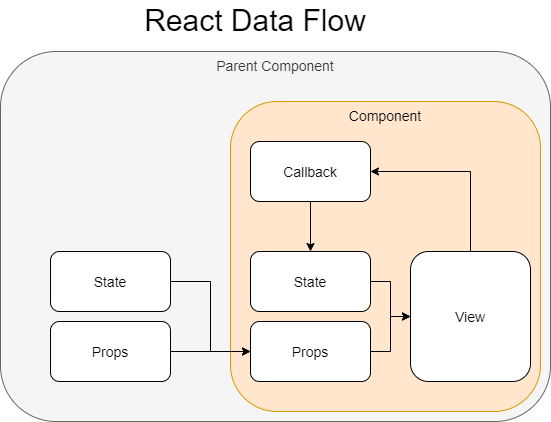
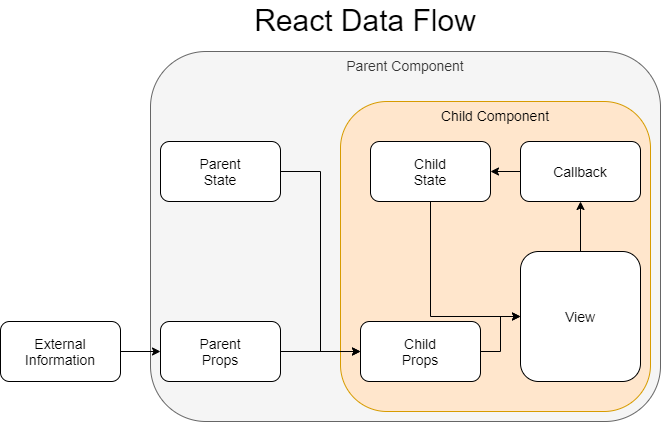
Diagram updates, alternatives and concepts

diff --git a/src/pages/index.js b/src/pages/index.js
@@ -1,7 +1,7 @@
 // import BackgroundInformation from './BackgroundInformation';
 import OtherConcepts from './OtherConcepts';
 import Alternatives from './Alternatives';
-import Resources from './Resources';
+// import Resources from './Resources';
 import GettingStartedSuggestions from './GettingStartedSuggestions';
 import BuildingonReact from './BuildingonReact';
 import Intro from './Intro';
@@ -13,7 +13,7 @@ const pages = [
   // BackgroundInformation,
   BuildingonReact,
   GettingStartedSuggestions,
-  Resources,
+  // Resources,
   Alternatives,
   Intro,
   MainConcepts,

diff --git a/src/pages/MainConcepts/Components/index.js b/src/pages/MainConcepts/Components/index.js
@@ -2,15 +2,20 @@ import ClassComponents from './ClassComponents';
 import FunctionalComponents from './FunctionalComponents';
 
 import info from './Components.md';
-import example from './Components.jsexample';
+import example1 from './Minimal.jsexample';
+import example2 from './Components.jsexample';
 
 const config = {
   info,
   name: 'Components',
   examples: [
     {
-      name: 'Class Vs Functional',
-      example,
+      name: 'Minimal',
+      example: example1,
+    },
+    {
+      name: 'With Props',
+      example: example2,
     },
   ],
   children: [

diff --git a/src/components/Info/Info.scss b/src/components/Info/Info.scss
@@ -2,22 +2,8 @@
   flex-grow: 1;
   background-color: white;
   
-  .active {
-    background-color: yellowgreen;
-    border: 1px solid black;
-  }
-
   blockquote {
-    padding-left: 3em;
+    padding-left: 1em;
     border-left: .5em #ccc solid;
-  }
-
-  pre code {
-    // display: block;
-    // margin: 15px;
-    // padding: 10px;
-    // font-family: monospace !important;
-    // background-color: #dddddd;
-    // width: fit-content;
   }
 }

diff --git a/src/pages/Alternatives/Alternatives.md b/src/pages/Alternatives/Alternatives.md
@@ -1,3 +1,27 @@
 # Alternatives
 
-Default information
+While ReactJS may be one of the most popular JavaScript UI Libraries, there are others - along with plenty of discussions and comparison to help decide which is right to use. Some of the most popular (and similar) include:
+
+__[Angular](https://angular.io/)__
+
+> Angular is an application design framework and development platform for creating efficient and sophisticated single-page apps.
+
+Angular is a revamped version of AngularJS. Originally made popular and used by Google, it is a popular framework for building applications and powers many of the largest and most used websites in the world.
+
+__[Vue.js](https://vuejs.org/)__
+
+> Vue (pronounced /vjuː/, like view) is a progressive framework for building user interfaces. Unlike other monolithic frameworks, Vue is designed from the ground up to be incrementally adoptable. The core library is focused on the view layer only, and is easy to pick up and integrate with other libraries or existing projects. On the other hand, Vue is also perfectly capable of powering sophisticated Single-Page Applications when used in combination with modern tooling and supporting libraries.
+
+Vue.js is not necessarily a newcomer as it has been around since 2013, it has seen a surge in popularity over the past year or two.
+
+__[Ember](https://emberjs.com/)__
+
+> Ember.js is a productive, battle-tested JavaScript framework for building modern web applications. It includes everything you need to build rich UIs that work on any device.
+
+Ember is a much more complete framework than React, with many additional features, components, and services built in.
+
+__[Backbone.js](http://backbonejs.org/)__
+
+> Backbone.js gives structure to web applications by providing models with key-value binding and custom events, collections with a rich API of enumerable functions, views with declarative event handling, and connects it all to your existing API over a RESTful JSON interface.
+
+Backbone.js is another more complete MVC framework, similar to Ember and Angular.

diff --git a/src/pages/MainConcepts/Components/Components.md b/src/pages/MainConcepts/Components/Components.md
@@ -6,7 +6,13 @@ Both types of components manage the same two sets of data: _props_ and _state_. 
 * _props_ is the information passed into a Component from a parent.
 * _state_ is the information tracked and managed by the Component. This can be either used directly in the component, or passed to one or more children Components.
 
+__State and Props__ shows how props make their way down from parent components into children, while state stays inside of a component.
+
 ![State and Props](/first-to-react/diagrams/stateandprops.png)
+
+__React Data Flow__ shows how the _view_ of a component can make use of a callback to modify its _state_ and how _state_ and _props_ combine to create the view. As well as how a component takes in _props_, but maintains its own _state_.
+
+![React Data Flow](/first-to-react/diagrams/reactdataflow.png)
 
 ##### Class Components
 
@@ -24,4 +30,6 @@ Which to use will depend on the needs of each component. Is it a very basic disp
 
 Many examples will show both a Class Component and Functional Component in order to constrast between them and show how certain situations are handled in the different ways.
 
-The __Class Vs Functional__ example below shows basic version of each a Class Component and Functional Component.
+The __Minimal__ example below shows the most minimal version of each a Class Component and Functional Component.
+
+The __With Props__ example below how each a Class Component and Functional Component access _props_.

diff --git a/src/pages/GettingStartedSuggestions/GettingStartedSuggestions.md b/src/pages/GettingStartedSuggestions/GettingStartedSuggestions.md
@@ -1,6 +1,19 @@
 # Getting Started Suggestions
 
-Default information
+In addition to the Concept Overviews and Examples later in this overview, there are many free and available tutorials for React, including the [official React Tutorial](https://reactjs.org/tutorial/tutorial.html) or [the React Docs](https://reactjs.org/docs/getting-started.html).
+
+Ready to get started with your own project? Some suggestions:
+
+* [create-react-app](https://github.com/facebook/create-react-app) provides an easy, one-line command to bootstrap a new React project and get moving.
+
+    * Other options are well documented on the documation page [Create a New React App](https://reactjs.org/docs/create-a-new-react-app.html)
 
 
-https://reactjs.org/docs/create-a-new-react-app.html
+
+* Use an IDE such as [VSCode](https://code.visualstudio.com/)
+
+* Employ the use of ESLint and the VSCode ESLint extension. ESLint already comes configured with _create-react-app_-built applications, but can be extended.
+
+* Check out the React Ecosystem pages again for popular libraries to enhance your app.
+
+

diff --git a/src/pages/WhatisReact/Drawbacks/Drawbacks.md b/src/pages/WhatisReact/Drawbacks/Drawbacks.md
@@ -2,6 +2,8 @@
 
 __JSX__ - React does not use separate files as templates with markup, but instead uses inline JSX, which is a extension of HTML to mix JavaScript and HTML. This can be useful once learned, but there is a sometimes steep learning curve to it.
 
+__State and Props Flow__ - One of React's best features can have a steep learning curve as well. The successful management of _state_ and _props_ is essential to successfully working with React, but can be a difficult set of concepts to learn.
+
 __React is only the View in MVC__ - React provides management of the View, but to build a fully features website, other libraries are needed to complete the MVC pattern.
 
 __Styling/Design Library Required__ - React does not have built in themes, Advanced UI Components, or style management. A 3rd Party library is needed. However, many of the popular UI Styling libraries are available with React wrappers, such as [Bootstrap](https://getbootstrap.com/) and [Material-UI](https://material-ui.com/).

diff --git a/src/components/General/About.md b/src/components/General/About.md
@@ -9,6 +9,9 @@ First-To-React is hosted with GitHub Pages.
 * Material-UI Icons
 * Create-React-App
 * SASS
+* React-Markdown
+* React-Live
+* React-Router
 * [reqres.in](https://reqres.in/) for API Sample Data
 
 For additional tools, see the [README](https://github.com/pgeeh/first-to-react/blob/master/README.md)
